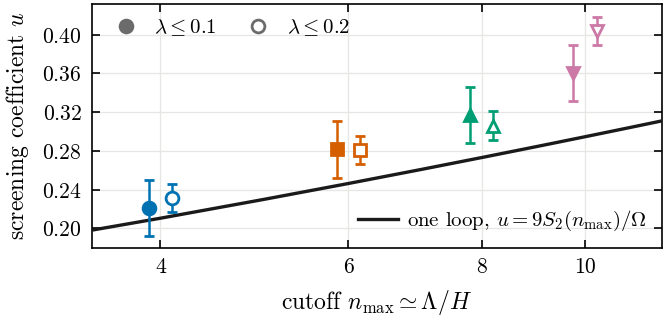
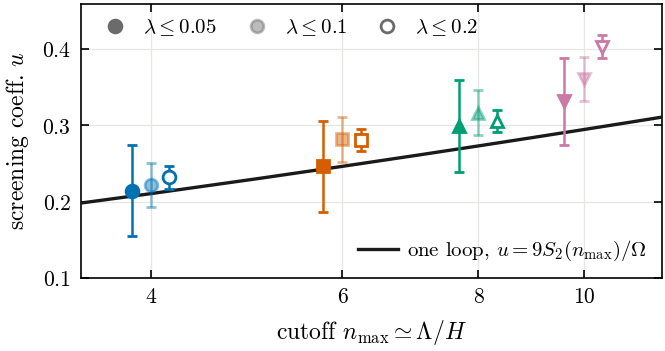
Fig. 2 with three fit windows (lambda <= 0.05, 0.1, 0.2); README wording on the data set and the Zenodo record

diff --git a/reproduction/make_figures.py b/reproduction/make_figures.py
@@ -351,26 +351,24 @@ def fig2(data, cutoffs, window, out):
     """Result 2: the residual slope against the cutoff.  On a logarithmic
     cutoff axis the one-loop prediction (9/2) S_2/Omega is close to a straight
     line, so what the eye reads off is the logarithmic running of lambda.
-    Filled points are fitted on lambda <= 0.1, where one loop should hold;
-    open points on lambda <= 0.2, where the analytic counterterm's own
-    higher-order correction has set in."""
-    fig, ax = plt.subplots(figsize=(COLW, 1.65))
+    Three fit windows: lambda <= 0.05 (filled), 0.1 (light) and 0.2 (open).
+    The excess over one loop grows with the window and with the cutoff, as a
+    residual mass of two-loop order (~ lambda^2 S_1) does."""
+    fig, ax = plt.subplots(figsize=(COLW, 1.8))
     ns = np.arange(3, 14)
     h1L, = ax.plot(ns, [2 * slope_1loop(n) for n in ns], color=INK, lw=1.2, zorder=3,
                    label=r"one loop, $u=9S_2(n_{\max})/\Omega$")
+    windows = ((0.05, -0.04, dict(mfc=None)), (0.1, 0.0, dict(mfc=None, alpha=0.45)), (0.2, 0.04, dict(mfc="white")))
     for nm in cutoffs:
-        c1, e1 = fit_slope(data, nm, 0.1)
-        c2, e2 = fit_slope(data, nm, 0.2)
-        ax.errorbar([nm * 0.975], [2 * c1], yerr=[2 * e1], marker=MRK[nm], color=COL[nm],
-                    zorder=5, **{**EB, "ms": 4.6, "mfc": COL[nm]})
-        ax.errorbar([nm * 1.025], [2 * c2], yerr=[2 * e2], marker=MRK[nm], color=COL[nm],
-                    zorder=4, **{**EB, "ms": 4.6})
-    ax.legend(handles=[Line2D([], [], lw=0, marker="o", ms=4.6, color=MUTED, mfc=MUTED,
-                              label=r"$\lambda\leq0.1$"),
-                       Line2D([], [], lw=0, marker="o", ms=4.6, color=MUTED, mfc="white",
-                              mew=1.0, label=r"$\lambda\leq0.2$")],
-              frameon=False, loc="upper left", fontsize=7.5, ncol=2,
-              handletextpad=0.35, columnspacing=1.0, borderaxespad=0.25)
+        for w, dx, st in windows:
+            c, e = fit_slope(data, nm, w)
+            ax.errorbar([nm * (1 + dx)], [2 * c], yerr=[2 * e], marker=MRK[nm], color=COL[nm], zorder=5,
+                        **{**EB, "ms": 4.6, **{k: (COL[nm] if v is None else v) for k, v in st.items()}})
+    ax.legend(handles=[Line2D([], [], lw=0, marker="o", ms=4.6, color=MUTED, mfc=MUTED, label=r"$\lambda\leq0.05$"),
+                       Line2D([], [], lw=0, marker="o", ms=4.6, color=MUTED, mfc=MUTED, alpha=0.45, label=r"$\lambda\leq0.1$"),
+                       Line2D([], [], lw=0, marker="o", ms=4.6, color=MUTED, mfc="white", mew=1.0, label=r"$\lambda\leq0.2$")],
+              frameon=False, loc="upper left", fontsize=7.5, ncol=3,
+              handletextpad=0.35, columnspacing=0.9, borderaxespad=0.25)
     ax.add_artist(ax.get_legend())
     ax.legend(handles=[h1L], frameon=False, loc="lower right", fontsize=7.5,
               handlelength=1.9, handletextpad=0.45, borderaxespad=0.3)
@@ -378,9 +376,9 @@ def fig2(data, cutoffs, window, out):
     ax.set_xticks(list(cutoffs)); ax.set_xticklabels([str(x) for x in cutoffs])
     ax.minorticks_off()
     ax.set_xlabel(r"cutoff $n_{\max}\simeq\Lambda/H$")
-    ax.set_ylabel(r"screening coefficient $u$")
-    ax.set_ylim(0.180, 0.432)
-    ax.set_yticks([0.20, 0.24, 0.28, 0.32, 0.36, 0.40])
+    ax.set_ylabel(r"screening coeff. $u$")
+    ax.set_ylim(0.10, 0.46)
+    ax.set_yticks([0.1, 0.2, 0.3, 0.4])
     grid(ax)
     fig.tight_layout(pad=0.3)
     fig.savefig(out / "fig2_running.pdf")

diff --git a/src/lattice_ds/cli/run.py b/src/lattice_ds/cli/run.py
@@ -27,11 +27,9 @@ Properties:
 Seeds. Chain i_seed of the point (n_max, m^2, lambda) is seeded by
 numpy.random.SeedSequence([base_seed, n_max, round(1e9 (m^2 + 1000)), round(1e9 lambda), i_seed]),
 so chains at different points, or from different invocations with the same
---base-seed, never share a seed. (Version 1.0.0 derived the seed from the
-positions in the --m2 and --lam lists, which let chains at neighbouring
-couplings share seeds; the chains published with the paper carry those seeds,
-recorded in each file.) --seed runs one point with explicitly given seeds, for
-example to re-run a published chain. With --eps-auto the same seed drives the
+--base-seed, never share a seed. --seed runs one point with explicitly given
+seeds, for example to re-run a published chain from the seed recorded in its
+file. With --eps-auto the same seed drives the
 calibration and then, restarted, the production chain.
 """
 

diff --git a/reproduction/reproduce_tables.py b/reproduction/reproduce_tables.py
@@ -219,8 +219,9 @@ def do_setb(a):
             rows = pool.map(setb_point, jobs, chunksize=1)
     else:
         rows = [setb_point(j) for j in jobs]
-    # Columns that are tabulated, not recomputed here: the histogram estimate of the massless
-    # point (Appendix D3; a separate analysis of the mass scans) and the used_in_paper flag.
+    # Columns copied from the published table, not recomputed here: the histogram estimate of
+    # the massless point (Appendix D3; an analysis not included in this repository) and the
+    # used_in_paper flag.
     for r, p in zip(rows, pub):
         r.update(m2_crossing=p.get("m2_crossing", ""), m2_crossing_err=p.get("m2_crossing_err", ""),
                  used_in_paper=p.get("used_in_paper", ""))

diff --git a/reproduction/README.md b/reproduction/README.md
@@ -19,11 +19,11 @@ chains/manifest.csv  list of the Monte Carlo chains
 figures/             output of the figure scripts
 ```
 
-The Monte Carlo chains (about 4000 files, 2 GB) are archived on Zenodo, [doi:10.5281/zenodo.23242257](https://doi.org/10.5281/zenodo.23242257); the record is being finalised and will be published at this DOI. Each file contains, for one chain, the observables measured on every configuration; the field configurations themselves (136 GB) are available on request. Download `chains_constrained.zip` and `chains_unconstrained.zip` and unzip them inside `reproduction/`; this creates `chains/constrained/` and `chains/unconstrained/` next to `chains/manifest.csv`.
+The Monte Carlo chains (about 4000 files, 2 GB) are archived on Zenodo, [doi:10.5281/zenodo.23242257](https://doi.org/10.5281/zenodo.23242257); it might take a few days for the record to be available at this DOI. Each file contains, for one chain, the observables measured on every configuration; the field configurations themselves (136 GB) are available on request. Download `chains_constrained.zip` and `chains_unconstrained.zip` and unzip them inside `reproduction/`; this creates `chains/constrained/` and `chains/unconstrained/` next to `chains/manifest.csv`.
 
 ## Data-set note
 
-The tables and figures here are computed from the final data set. In the version of the chains used for arXiv v1 of the paper, the unconstrained chains had been seeded from the positions of $\lambda$ and $m^2$ in the launch lists, so chains at neighbouring couplings (and, in the mass scans, at the same $n_{\max}$ across couplings) shared seeds: per-point results were unaffected, but fits across couplings at fixed $n_{\max}$ (the screening coefficient $u$ and $\kappa$) had errors underestimated by about 15%. All unconstrained chains were therefore regenerated with `lattice-ds` version 1.0.0, whose seeds depend on the point itself, with the same design as before except that nine Table II ensembles that had two chains of 8 000 measurements now have six of 30 000. Constrained chains and `force_*` chains, whose seeds were already independent, are unchanged. The numbers in the tables, in particular $u$, $\kappa$, $U$ and its errors, differ accordingly from arXiv v1 in small ways; v2 of the paper will match this data set. `manifest.csv` lists the chains of the final set; the last few hundred mass-scan chains at $n_{\max} = 8, 10$ are being added.
+The tables and figures here are computed from the final data set; the first preprint (arXiv v1) used an earlier version of the unconstrained chains, so its numbers differ in small ways, and Fig. 2 there shows two fit windows instead of three. The journal version of the paper will match this data set. `manifest.csv` lists the chains of the final set.
 
 ## Reproducing the paper
 
@@ -111,7 +111,7 @@ Two simulation sets:
 | `local_exponent` | $d\ln V_C'/d\ln\bar\phi$ at $\sigma$ (3 for a pure quartic) |
 | `y_taylor`, `y_taylor_err` | $9\lambda_R S_2/\Omega$ with $\lambda_R$ the quartic Taylor coefficient at the origin from the same fit |
 | `used_in_paper` | 0 for the $n_{\max} = 4$ points at $\lambda = 80$ and $120$ ($\lambda = 240$ was also simulated and is not tabulated), whose massless point is prescription dependent because the induced mass of the nonzero modes at the typical field approaches the cutoff; they are excluded from the figures and from every number quoted in the paper, which restricts Set B to $\lambda \le 60$ (Appendix D4). Their chains are in `chains/`. |
-| `m2_crossing`, `m2_crossing_err` | independent massless point from histogram fits of the unconstrained mass scans (Appendix D3 of the paper), where available. These two columns are tabulated results of that analysis and are carried over by `reproduce_tables.py`, not recomputed by it |
+| `m2_crossing`, `m2_crossing_err` | independent estimate of the massless point from a histogram analysis of the unconstrained mass scans (Appendix D3 of the paper), where available; plotted in Fig. massless(b) by `fig_massless.py`. These two columns are provided as numbers only: the histogram analysis is not part of this repository, and `reproduce_tables.py` copies them from the published table instead of recomputing them |
 | `chi2`, `dof` | of the joint fit at $m_*^2$ |
 | `n_constrained`, `n_unconstrained_files` | number of constrained chains and of unconstrained files pooled into the ensemble at the point |
 | `ess_unconstrained` | effective sample fraction of the unconstrained ensemble after reweighting to $m_*^2$ |

diff --git a/README.md b/README.md
@@ -121,9 +121,9 @@ The folder [`reproduction/`](reproduction/) contains the data tables, the analys
 
 > A. Caravano, *Lattice Monte Carlo of $\lambda\phi^4$ on Euclidean de Sitter*, [arXiv:XXXX.XXXXX](https://arxiv.org/abs/XXXX.XXXXX) (2026).
 
-The Monte Carlo chains are archived on Zenodo: [doi:10.5281/zenodo.23242257](https://doi.org/10.5281/zenodo.23242257) (the record is being finalised and will be published at this DOI). [`reproduction/README.md`](reproduction/README.md) explains how to reproduce the figures, the tables and the chains.
+The Monte Carlo chains are archived on Zenodo: [doi:10.5281/zenodo.23242257](https://doi.org/10.5281/zenodo.23242257) (it might take a few days for the record to be available at this DOI). [`reproduction/README.md`](reproduction/README.md) explains how to reproduce the figures, the tables and the chains.
 
-The tables and figures in `reproduction/` are computed from the final data set, in which every unconstrained chain was regenerated with independent seeds (see the data-set note in `reproduction/README.md`). They differ in small ways from the numbers of arXiv v1 of the paper, which were obtained from an earlier version of the chains; v2 of the paper will match them.
+The tables and figures in `reproduction/` are computed from the final data set and may show minor differences from the first preprint (arXiv v1).
 
 ## AI usage statement
 
